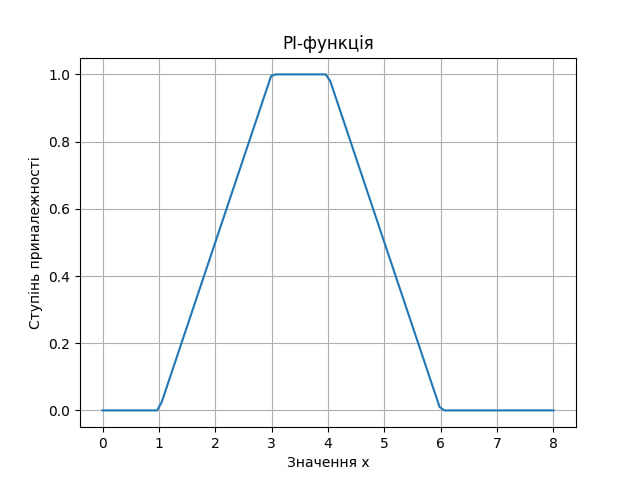
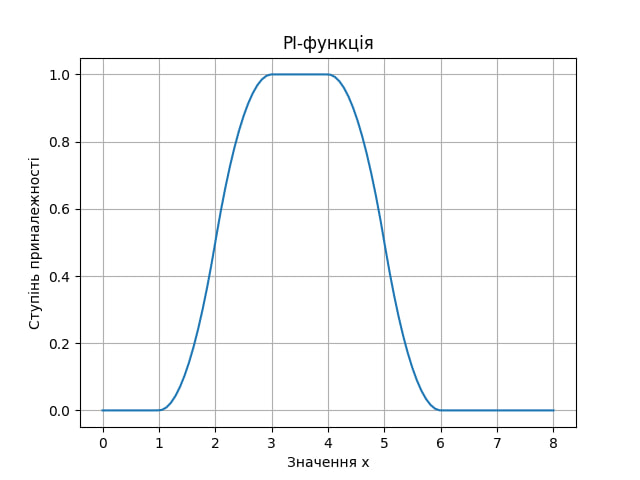
changed polinomial functions (#6)

diff --git a/ai/lab/lab-1-18.09.2023/fuzzyl/main.py b/ai/lab/lab-1-18.09.2023/fuzzyl/main.py
@@ -158,23 +158,13 @@ plt.ylabel('Ступінь приналежності')
 plt.grid(True)
 plt.show()
 
-
 # Поліноміальні
-
-def z_function(x, a, b):
-    if x <= a:
-        return 1
-    elif a <= x <= b:
-        return (x - b) / (a - b)
-    else:
-        return 0
-
 
 a = 2
 b = 4
 
 x = np.linspace(0, 6, 100)
-y = [z_function(i, a, b) for i in x]
+y = fuzz.zmf(x, a, b)
 
 plt.plot(x, y)
 plt.title('Z-функція')
@@ -183,25 +173,13 @@ plt.ylabel('Ступінь приналежності')
 plt.grid(True)
 plt.show()
 
-
-def pi_function(x, a, b, c, d):
-    if x <= a or x >= d:
-        return 0
-    elif a <= x <= b:
-        return (x - a) / (b - a)
-    elif b <= x <= c:
-        return 1
-    elif c <= x <= d:
-        return (d - x) / (d - c)
-
-
 a = 1
 b = 3
 c = 4
 d = 6
 
 x = np.linspace(0, 8, 100)
-y = [pi_function(i, a, b, c, d) for i in x]
+y = fuzz.pimf(x, a, b, c, d)
 
 plt.plot(x, y)
 plt.title('PI-функція')
@@ -210,16 +188,11 @@ plt.ylabel('Ступінь приналежності')
 plt.grid(True)
 plt.show()
 
-
-def s_function(x, a, b):
-    return 1 - z_function(x, a, b)
-
-
 a = 2
 b = 4
 
 x = np.linspace(0, 6, 100)
-y = [s_function(i, a, b) for i in x]
+y = fuzz.smf(x, a, b)
 
 plt.plot(x, y)
 plt.title('S-функція')
@@ -268,10 +241,12 @@ plt.legend()
 plt.tight_layout()
 plt.show()
 
+
 # Кон'юнкція / Диз'юнкція
 
 def gaussian_probability(x, mean, std_dev):
     return np.exp(-((x - mean) / (std_dev)) ** 2 / 2) / (std_dev * np.sqrt(2 * np.pi))
+
 
 mean_A = 0.5
 std_dev_A = 0.2

diff --git a/ai/lab/lab-1-18.09.2023/report.md b/ai/lab/lab-1-18.09.2023/report.md
@@ -41,6 +41,7 @@
 ## Виконання
 
 ### Трикутна та трапецієподібна функції
+
 ![triangle](plots/triangle.png)
 ![trapezoid](plots/trapezoid.png)
 
